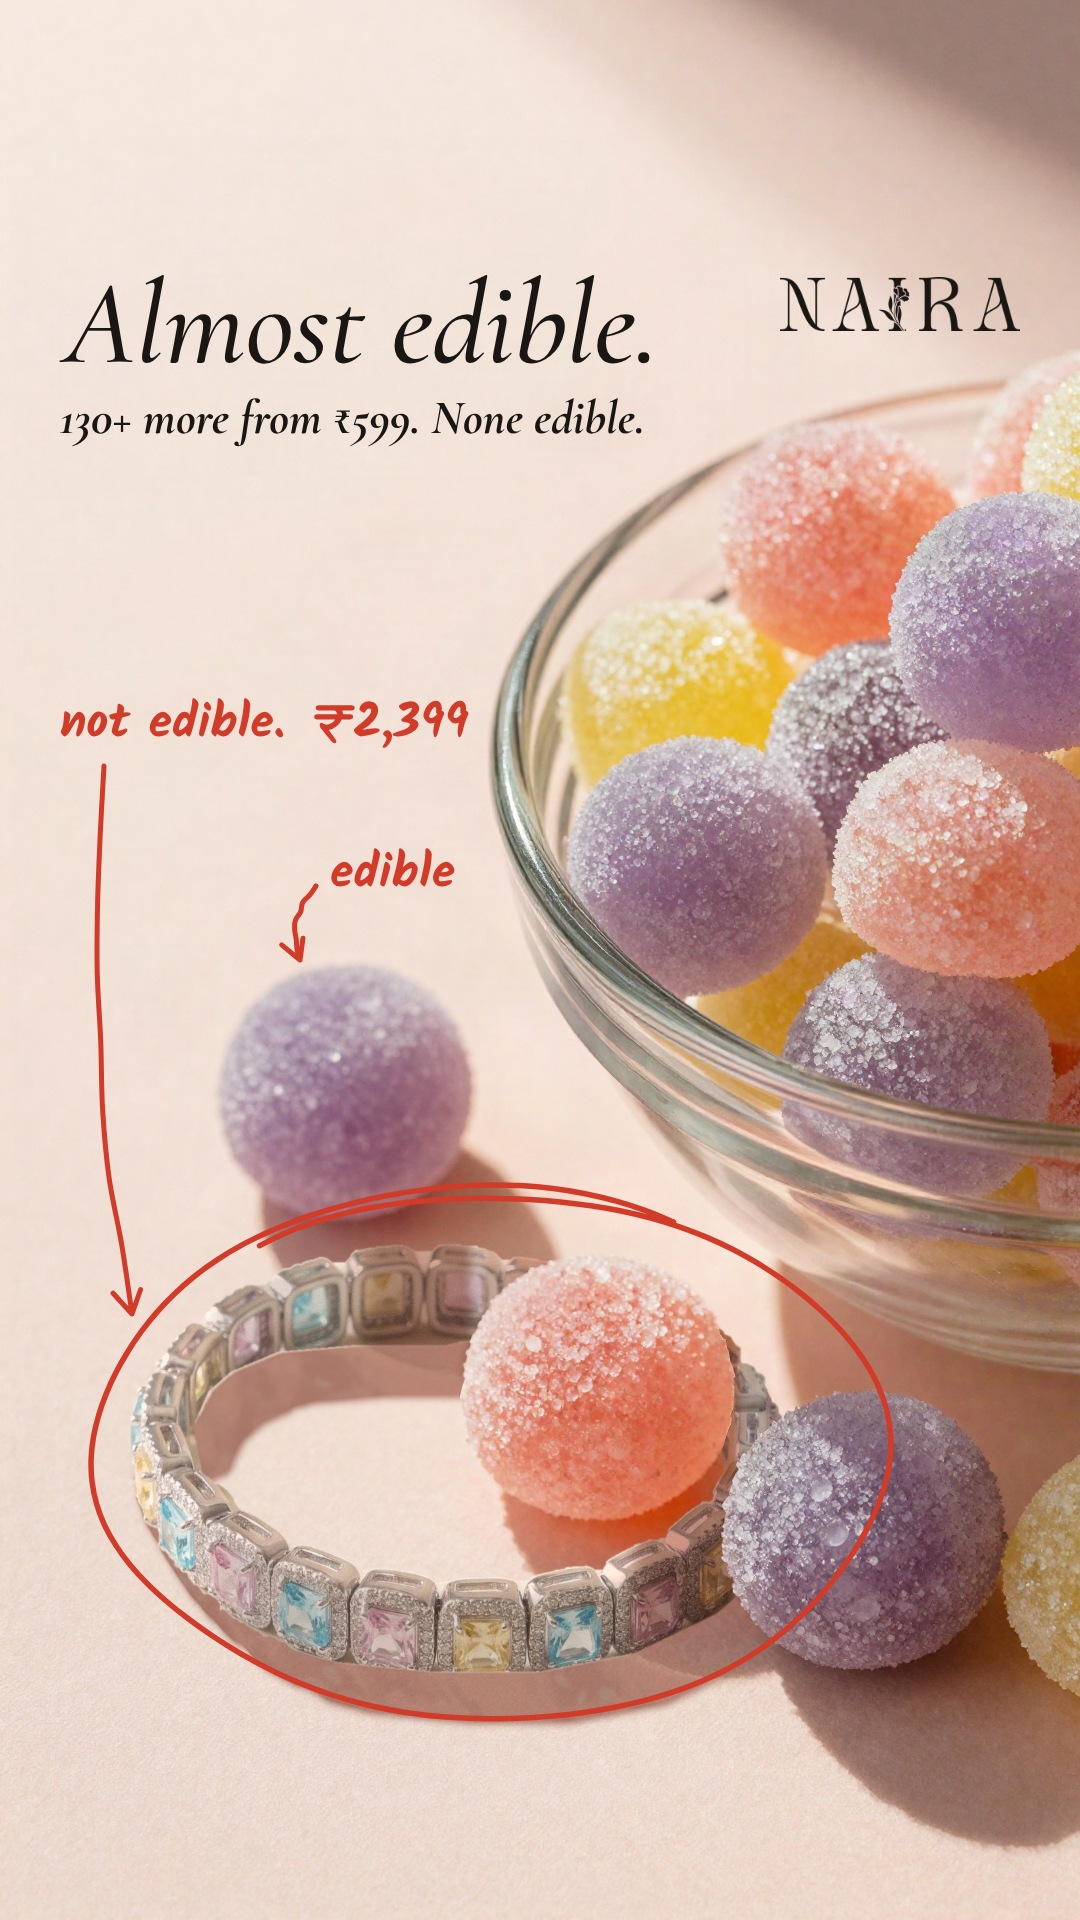
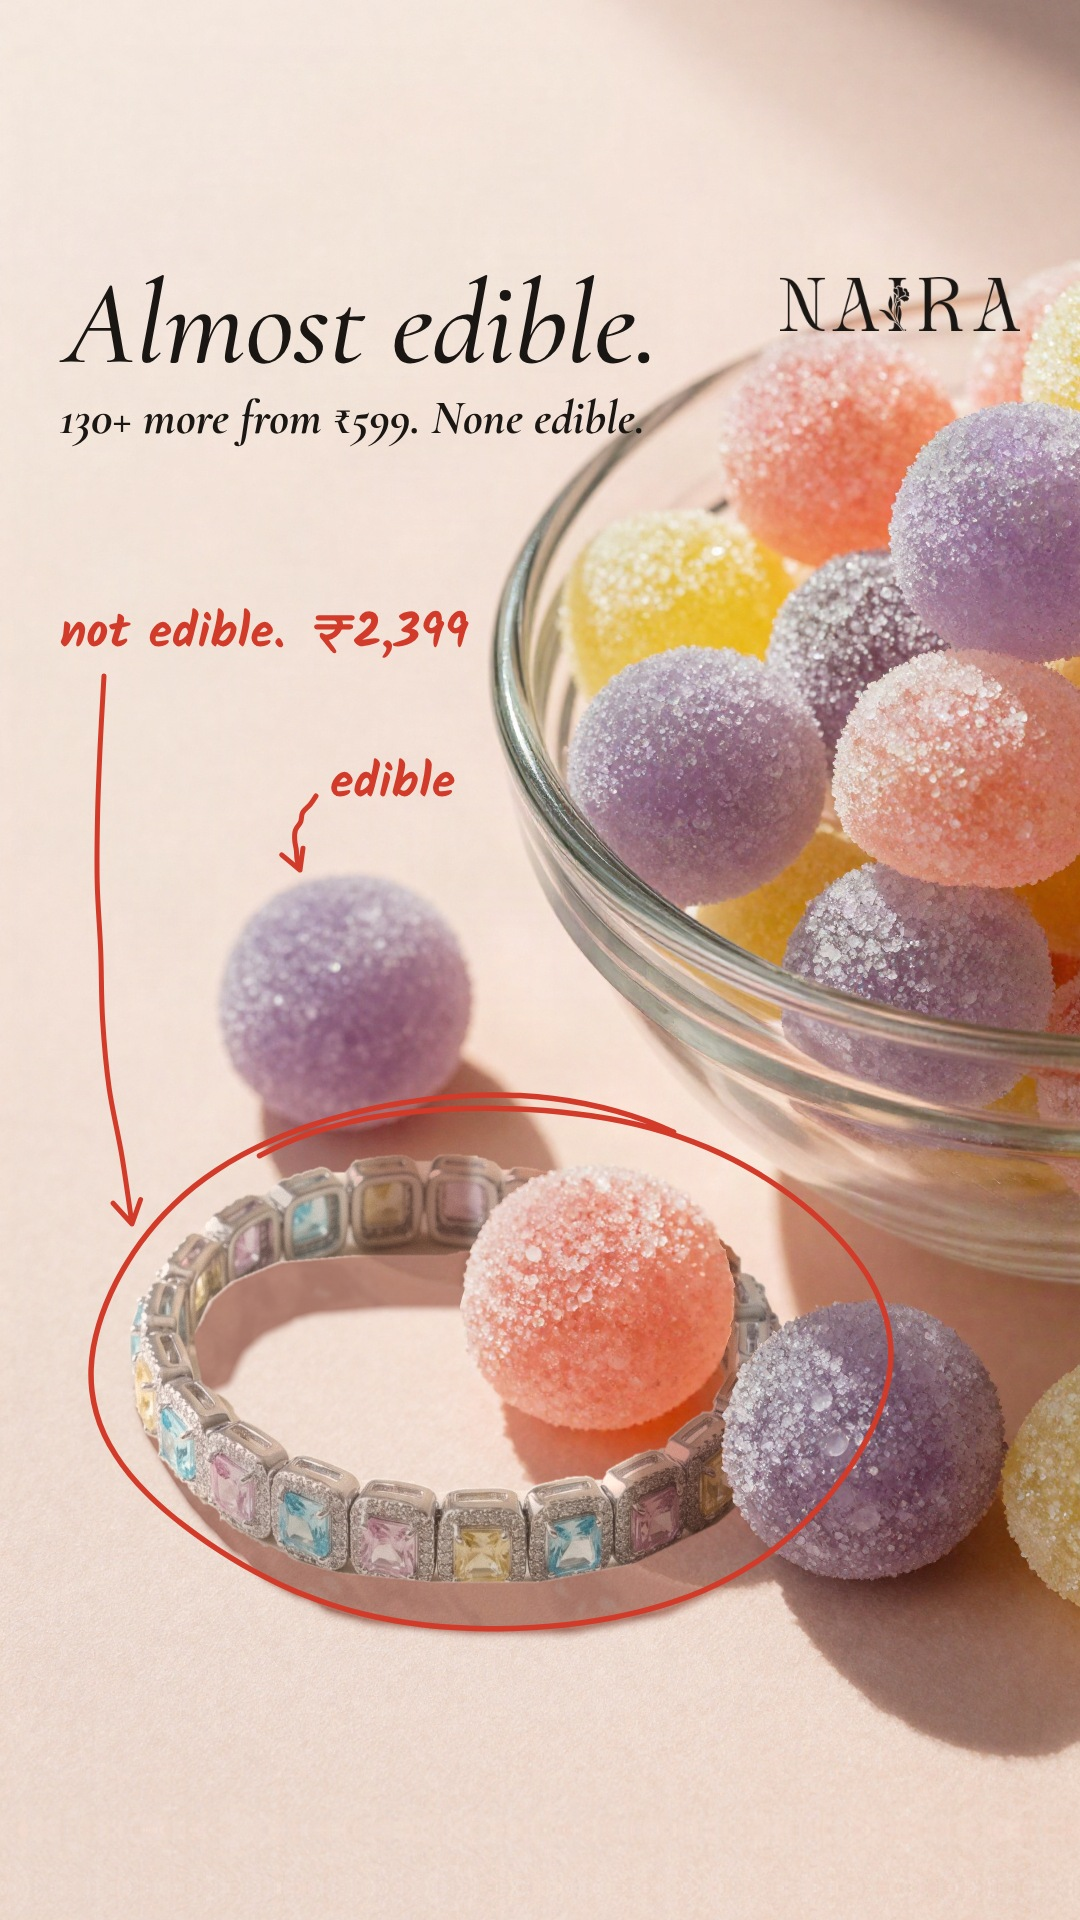
Shop All: board published; plain change notes; C01 Story bracelet lifted clear of the Shop now button
Claude-Session: https://claude.ai/code/session_015dHqE92KQXn2h19sPkpsQR

diff --git a/docs/creative/shop-all/build/src/C01/story.html b/docs/creative/shop-all/build/src/C01/story.html
@@ -1,9 +1,10 @@
 <!doctype html><html><head><meta charset="utf-8">
 <link rel="stylesheet" href="file:///tmp/claude-0/-home-user-naira-scroll/81f6e48f-a340-5398-99b2-f7e22fb69d37/scratchpad/shopall/kit/kit.css">
 <style>
- body.story{background:linear-gradient(to right,#ECD8CC 0,#ECD8CC 48%,#E4CDC0 100%)}
- /* H01 full bleed at 1.0 (its native 1536x2048), lifted 128px so the photo's bottom edge meets the frame's and the bracelet sits as high as it can; no fade, no panel */
- .ph{position:absolute;left:0;top:-128px;width:1536px;height:2048px;background:url('file:///tmp/claude-0/-home-user-naira-scroll/81f6e48f-a340-5398-99b2-f7e22fb69d37/scratchpad/shopall/pool/heroes/H01_prism_edible.png') 0 0/1536px 2048px no-repeat}
+ body.story{background:linear-gradient(to right,#ECD8CC 0,#ECD7CB 60%,#EDD5C7 100%)}
+ .seam{position:absolute;left:0;top:1830px;width:1080px;height:90px;background:url('file:///tmp/claude-0/-home-user-naira-scroll/81f6e48f-a340-5398-99b2-f7e22fb69d37/scratchpad/shopall/build/C01/ext.png') 0 0/1080px 90px no-repeat}
+ /* H01 full bleed at 1.0 (its native 1536x2048), lifted 218px so the whole bracelet sits above Meta's Shop now button; the 90px below it repeats the photo's own plain bottom rows, mirrored (background surface only) and the bracelet sits as high as it can; no fade, no panel */
+ .ph{position:absolute;left:0;top:-218px;width:1536px;height:2048px;background:url('file:///tmp/claude-0/-home-user-naira-scroll/81f6e48f-a340-5398-99b2-f7e22fb69d37/scratchpad/shopall/pool/heroes/H01_prism_edible.png') 0 0/1536px 2048px no-repeat}
  .t{position:absolute;white-space:nowrap}
  .hl{font-family:CGI,Georgia,serif;font-style:normal;font-weight:500;font-size:120px;line-height:.96;color:var(--ink);letter-spacing:-.005em}
  .mk{font-family:Kalam;font-weight:700;font-size:48px;line-height:1;color:var(--marker)}
@@ -13,18 +14,18 @@
 </style>
 <script src="file:///tmp/claude-0/-home-user-naira-scroll/81f6e48f-a340-5398-99b2-f7e22fb69d37/scratchpad/shopall/build/C01/doodle.js"></script>
 </head><body class="story">
-<div class="ph"></div>
+<div class="ph"></div><div class="seam"></div>
 <div class="t hl" style="left:64px;top:266px">Almost edible.</div>
 <img class="logo" src="file:///tmp/claude-0/-home-user-naira-scroll/81f6e48f-a340-5398-99b2-f7e22fb69d37/scratchpad/shopall/kit/logo_ink.png" style="left:780px;top:277px;width:240px">
 <div class="t sub" style="left:60px;top:394px">130+ more from ₹599. None edible.</div>
-<div class="t mk" style="left:60px;top:700px">not edible. <span style="margin-left:8px">₹2,399</span></div>
-<div class="t mk" style="left:330px;top:850px">edible</div>
+<div class="t mk" style="left:60px;top:610px">not edible. <span style="margin-left:8px">₹2,399</span></div>
+<div class="t mk" style="left:330px;top:760px">edible</div>
 <svg width="1080" height="1920" viewBox="0 0 1080 1920" id="s"></svg>
 <script>
  const s=document.getElementById('s');
  function add(d,w){const p=document.createElementNS('http://www.w3.org/2000/svg','path');p.setAttribute('d',d);p.setAttribute('stroke-width',w);s.appendChild(p);}
- add(roughArrow({x1:104,y1:766,x2:132,y2:1314,bend:0.07,seed:11,head:26}),5);
- add(roughArrow({x1:316,y1:886,x2:300,y2:960,bend:0.3,seed:5,head:22}),5);
- add(roughEllipse({cx:490.9,cy:1454.1,rx:388.2,ry:262.3,rot:-0.015,seed:21,sweep:2*Math.PI*1.18,drift:12}),5.5);
+ add(roughArrow({x1:104,y1:676,x2:132,y2:1224,bend:0.07,seed:11,head:26}),5);
+ add(roughArrow({x1:316,y1:796,x2:300,y2:870,bend:0.3,seed:5,head:22}),5);
+ add(roughEllipse({cx:490.9,cy:1364.1,rx:388.2,ry:262.3,rot:-0.015,seed:21,sweep:2*Math.PI*1.18,drift:12}),5.5);
 </script>
 </body></html>

diff --git a/docs/creative/shop-all/README.md b/docs/creative/shop-all/README.md
@@ -53,6 +53,13 @@ Each ad adds `utm_source=meta&utm_medium=paid&utm_campaign=shopall_nov26&utm_con
 `ads/fallback/` holds C19 with the headline "Card night." in case Meta's review objects to the card game.
 `ads/other/` holds the ten that were made but not picked; `research/judging.json` says why each sat out.
 
+## The board
+
+Published as a private artifact: https://claude.ai/artifact/EennScYjuLekNowJ6nqvv3 (share it from the page's Share menu).
+`research/changes.json` holds the plain-English note of what changed in each ad after review, written by comparing the
+before and after images. After the re-check, the C01 Story photo was lifted so the whole bracelet clears Meta's Shop now
+button.
+
 ## Rebuilding the board
 
 ```
